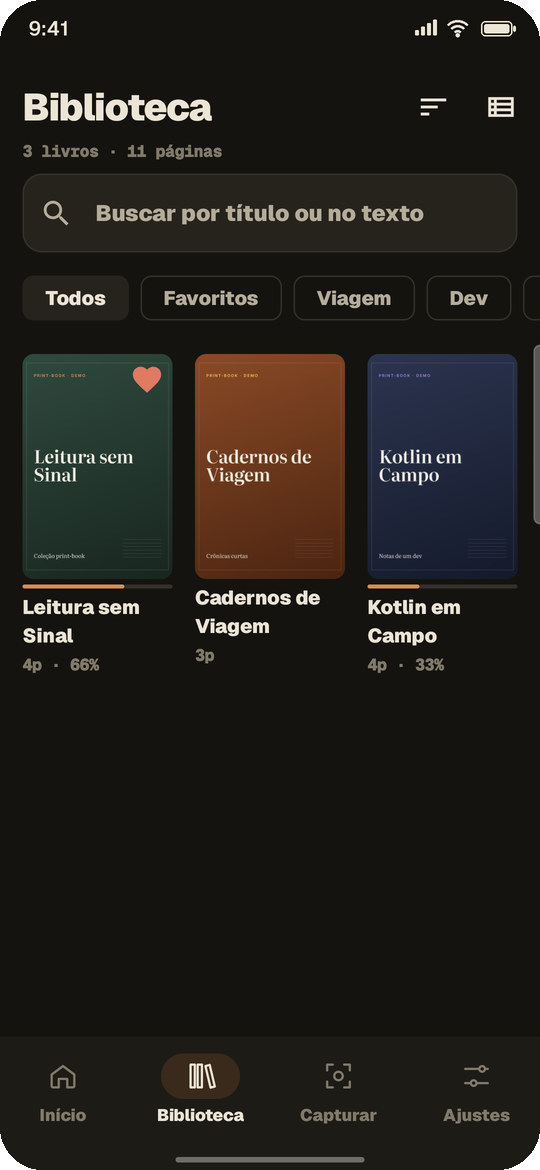
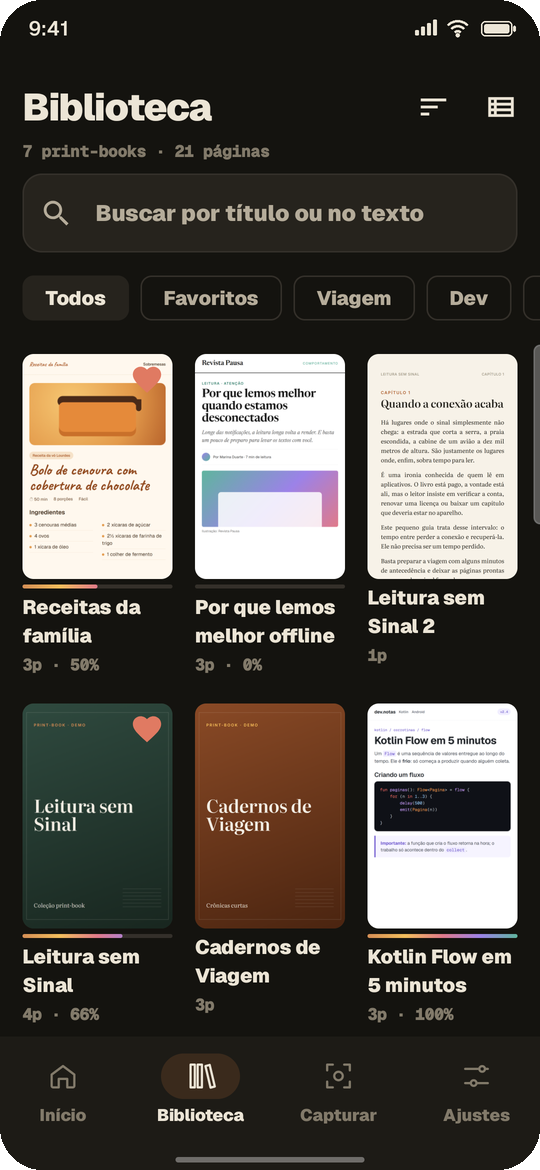
docs: capturas novas com receita, artigo e documentação; plurais corrigidos
- 7 capturas da edição loja com conteúdo de demonstração original (receita, artigo de revista,
  documentação de Kotlin Flow e livros), barra de status limpa e banner novo
- site e README usam as capturas novas (mesmos nomes); legendas atualizadas
- app: singular/plural em excluir print-book, excluir páginas, selecionadas e resultados da busca

diff --git a/app/src/main/java/com/printbook/app/ui/editor/EditorScreen.kt b/app/src/main/java/com/printbook/app/ui/editor/EditorScreen.kt
@@ -137,7 +137,7 @@ fun EditorScreen(
         topBar = {
             TopAppBar(
                 title = {
-                    Text(if (selecting) "${state.selected.size} selecionada(s)" else "Editar · ${state.book?.title.orEmpty()}")
+                    Text(if (selecting) (if (state.selected.size == 1) "1 selecionada" else "${state.selected.size} selecionadas") else "Editar · ${state.book?.title.orEmpty()}")
                 },
                 navigationIcon = {
                     if (selecting) {
@@ -238,7 +238,7 @@ fun EditorScreen(
     if (confirmDelete) {
         AlertDialog(
             onDismissRequest = { confirmDelete = false },
-            title = { Text("Excluir ${state.selected.size} página(s)?") },
+            title = { Text(if (state.selected.size == 1) "Excluir 1 página?" else "Excluir ${state.selected.size} páginas?") },
             text = { Text("As imagens serão apagadas do aparelho.") },
             confirmButton = {
                 TextButton(onClick = { confirmDelete = false; viewModel.deleteSelected() }) {

diff --git a/app/src/main/java/com/printbook/app/ui/bookdetail/BookDetailScreen.kt b/app/src/main/java/com/printbook/app/ui/bookdetail/BookDetailScreen.kt
@@ -373,7 +373,15 @@ fun BookDetailScreen(
         AlertDialog(
             onDismissRequest = { deleteDialog = false },
             title = { Text("Excluir \"${book.title}\"?") },
-            text = { Text("As ${book.pageCount} páginas capturadas serão apagadas do aparelho. Isso não pode ser desfeito.") },
+            text = {
+                Text(
+                    when (book.pageCount) {
+                        0 -> "Este print-book será apagado. Isso não pode ser desfeito."
+                        1 -> "A página capturada será apagada do aparelho. Isso não pode ser desfeito."
+                        else -> "As ${book.pageCount} páginas capturadas serão apagadas do aparelho. Isso não pode ser desfeito."
+                    },
+                )
+            },
             confirmButton = {
                 TextButton(onClick = { deleteDialog = false; viewModel.delete(onBack) }) {
                     Text("Excluir", color = MaterialTheme.colorScheme.error)

diff --git a/app/src/main/java/com/printbook/app/ui/reader/ReaderScreen.kt b/app/src/main/java/com/printbook/app/ui/reader/ReaderScreen.kt
@@ -393,7 +393,7 @@ private fun BookSearchSheet(
             )
             if (query.trim().length >= 2) {
                 Text(
-                    "${hits.size} página(s)",
+                    if (hits.size == 1) "1 página" else "${hits.size} páginas",
                     style = MaterialTheme.typography.labelMedium,
                     modifier = Modifier.padding(horizontal = 16.dp, vertical = 8.dp),
                 )

diff --git a/README.md b/README.md
@@ -87,25 +87,25 @@ O **print-book** reúne tudo num só lugar. Ele captura o que aparece na tela de
 
 <table>
   <tr>
-    <td align="center"><img src="docs/screenshots/01-inicio.png" width="220" /><br/><sub><b>Início</b>: continuar lendo e prateleiras</sub></td>
-    <td align="center"><img src="docs/screenshots/02-biblioteca.png" width="220" /><br/><sub><b>Biblioteca</b>: coleções, favoritos, progresso</sub></td>
-    <td align="center"><img src="docs/screenshots/05-leitor.png" width="220" /><br/><sub><b>Leitor</b>: zoom, marcadores, filtros</sub></td>
+    <td align="center"><img src="docs/screenshots/01-inicio.png" width="220" /><br/><sub><b>Início</b>: continue de onde parou</sub></td>
+    <td align="center"><img src="docs/screenshots/02-biblioteca.png" width="220" /><br/><sub><b>Biblioteca</b>: receitas, artigos, docs e livros</sub></td>
+    <td align="center"><img src="docs/screenshots/05-leitor.png" width="220" /><br/><sub><b>Leitor</b>: um artigo guardado para ler offline</sub></td>
   </tr>
   <tr>
-    <td align="center"><img src="docs/screenshots/03-busca.png" width="220" /><br/><sub><b>Busca no texto</b> com OCR offline</sub></td>
-    <td align="center"><img src="docs/screenshots/04-detalhe.png" width="220" /><br/><sub><b>Detalhe</b>: metadados e status do índice</sub></td>
-    <td align="center"><img src="docs/screenshots/07-captura-aura.png" width="220" /><br/><sub><b>Captura</b>: bolha flutuante e aura ao salvar</sub></td>
+    <td align="center"><img src="docs/screenshots/03-busca.png" width="220" /><br/><sub><b>Busca no texto</b>: "cenoura" dentro da receita</sub></td>
+    <td align="center"><img src="docs/screenshots/04-detalhe.png" width="220" /><br/><sub><b>Detalhe</b>: progresso, capa e liberar espaço</sub></td>
+    <td align="center"><img src="docs/screenshots/07-captura-aura.png" width="220" /><br/><sub><b>Captura</b>: a bolha guardando uma receita do navegador</sub></td>
   </tr>
 </table>
 
-<sub>Os livros exibidos são conteúdo de demonstração original, criado para estas imagens.</sub>
+<sub>Receitas, artigo, documentação e livros exibidos são conteúdo de demonstração original, criado para estas imagens.</sub>
 
 ---
 
 ## Funcionalidades
 
 **Captura**
-- Botão flutuante sobre o aplicativo de leitura (overlay em Compose), que se esconde no instante da captura.
+- Botão flutuante sobre o aplicativo em uso (overlay em Compose), que se esconde no instante da captura.
 - Funciona sobre **qualquer aplicativo que permita captura de tela**: leitores, navegador, PDFs e materiais de estudo.
 - Três modos:
   - **Manual:** um toque por página.
